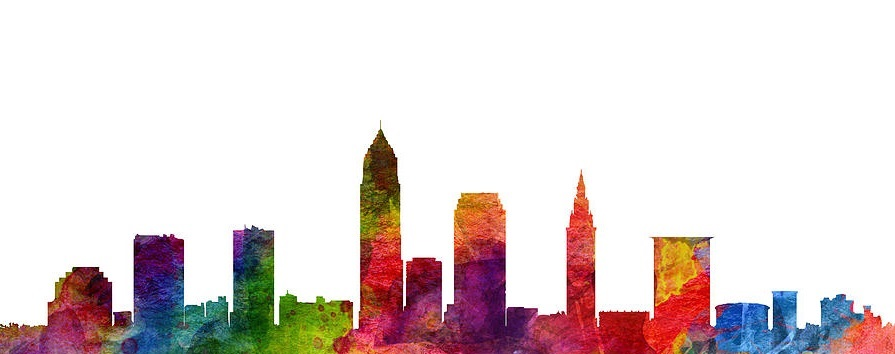
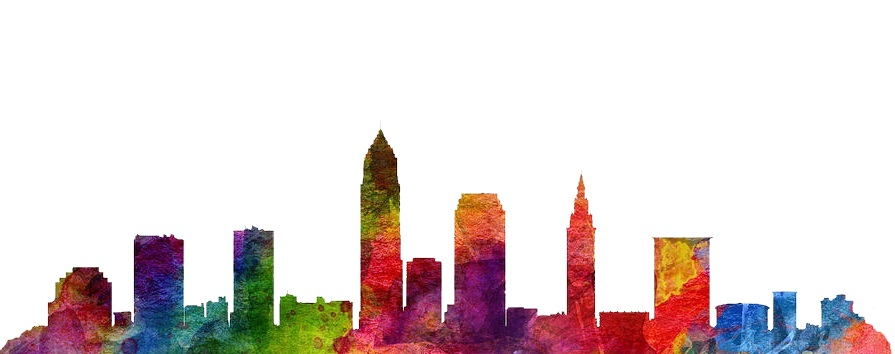
Edited image for home screen

diff --git a/frontend/src/App.css b/frontend/src/App.css
@@ -19,7 +19,7 @@ html {
   height: 100%;
   background-position: bottom;
   background-repeat: no-repeat;
-  background-size: 100% 75%;
+  background-size: fill;
 }
 
 a {
